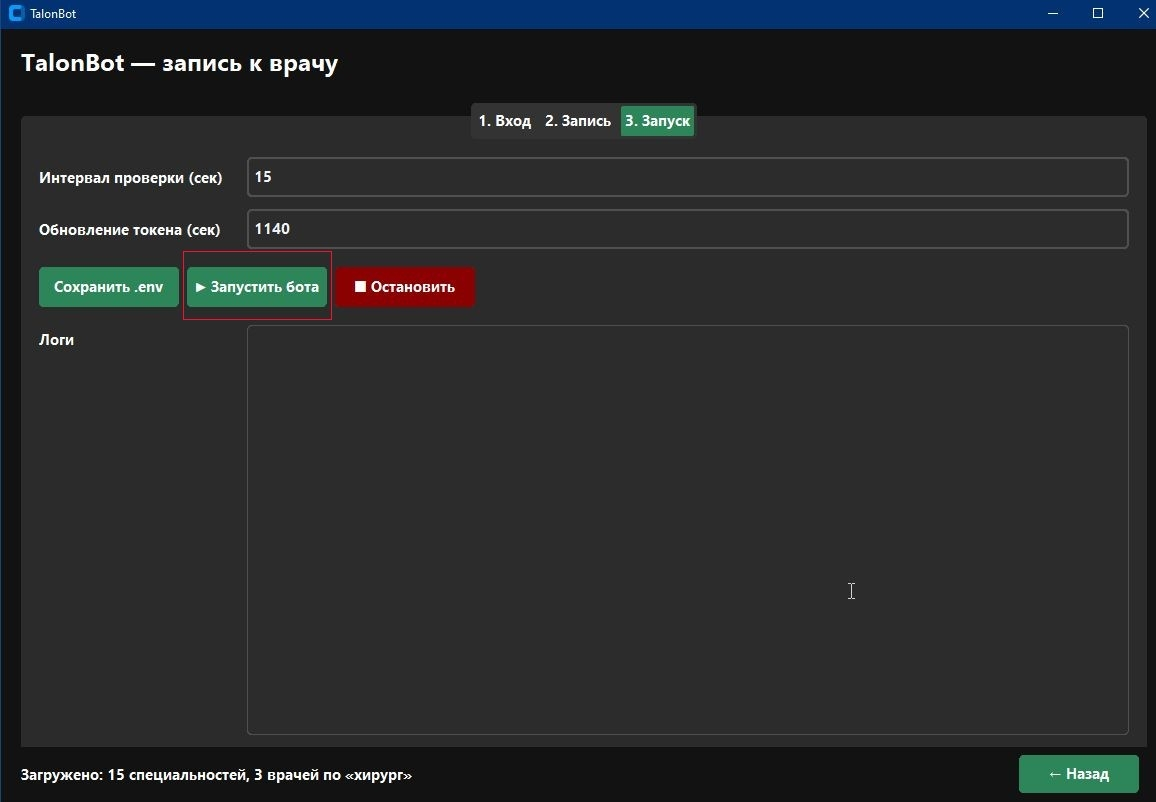
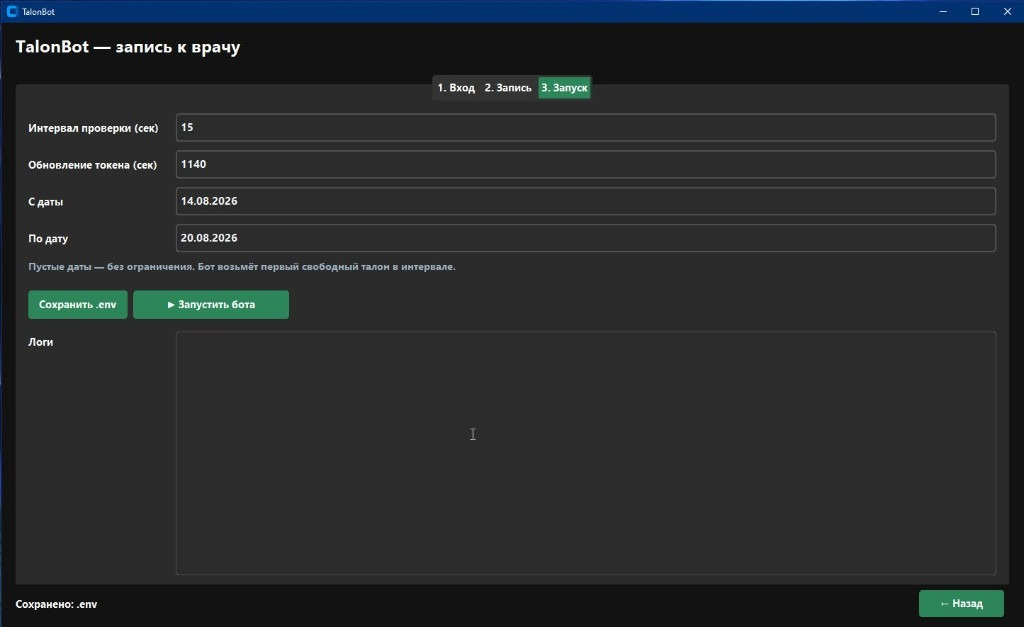
docs: обновить витрину под TalonBot v1.1
Добавлены возможности фильтра дат и улучшенного UI, секция «Что нового», обновлён скриншот вкладки «Запуск».

diff --git a/README.md b/README.md
@@ -41,8 +41,10 @@
 |:-:|---------|----------|
 | 🖥 | **Графический лаунчер** | Три шага: вход → выбор врача → запуск. Без ручного редактирования конфигов |
 | 🔁 | **Автомониторинг** | Периодическая проверка свободных талонов на выбранную специальность |
-| ⚡ | **Автозапись** | Попытка записи сразу при появлении окна |
+| 📅 | **Интервал дат** | Запись только в нужном диапазоне (`DATE_FROM` / `DATE_TO`) — не берёт талон «через месяц» |
+| ⚡ | **Автозапись** | Попытка записи сразу при появлении окна в интервале |
 | 🔔 | **Уведомление** | Звук Windows + зелёный баннер «ТАЛОН УСПЕШНО ВЗЯТ» |
+| 🎛 | **Умный запуск** | Одна кнопка «Запустить / Остановить» с цветовой индикацией состояния |
 | 🏥 | **Кэш МО** | Более 45 медорганизаций региона в базе |
 | 🔑 | **Лицензия на 1 ПК** | Персональный ключ после покупки |
 
@@ -65,6 +67,13 @@
 
 Подробнее — в [docs/ARCHITECTURE.md](docs/ARCHITECTURE.md) *(без раскрытия проприетарной логики)*.
 
+### Что нового в v1.1
+
+- **Фильтр по датам** — «С даты» / «По дату»; бот берёт первый талон только в интервале
+- **Кнопка запуска** — одна кнопка «Запустить / Бот работает / Остановлен» с цветовой индикацией
+- **Подсказки в диалогах** — «НАЖМИТЕ ДАЛЕЕ» после входа, «Запустить бота» после сохранения `.env`
+- **Защита от WinRAR** — понятная ошибка, если запустить установку из архива без распаковки
+
 ---
 
 ## 📸 Скриншоты
@@ -80,13 +89,13 @@
 </p>
 
 <p align="center">
-  <img src="docs/screenshots/3.jpg" alt="Вкладка «Запуск» — настройки и управление ботом" width="48%">
+  <img src="docs/screenshots/3.jpg" alt="Вкладка «Запуск» — интервал дат, настройки и управление ботом" width="48%">
   &nbsp;
   <img src="docs/screenshots/4.jpg" alt="Успешная запись — талон взят" width="48%">
 </p>
 
 <p align="center">
-  <sub><b>3. Запуск</b> — интервал опроса и логи &nbsp;·&nbsp; <b>4. Успех</b> — звук + баннер «ТАЛОН УСПЕШНО ВЗЯТ»</sub>
+  <sub><b>3. Запуск</b> — интервал дат, опрос и управление ботом &nbsp;·&nbsp; <b>4. Успех</b> — звук + баннер «ТАЛОН УСПЕШНО ВЗЯТ»</sub>
 </p>
 
 ---
@@ -125,7 +134,7 @@
 | Шаг | Действие |
 |:---:|----------|
 | 1⃣ | Оплата на Avito |
-| 2⃣ | Распаковка архива и установка |
+| 2⃣ | Распаковка архива `TalonBot_v1.1.zip` и установка |
 | 3⃣ | Код компьютера → персональный ключ |
 | 4⃣ | Вход → Запись → Запуск бота |
 

diff --git a/docs/ARCHITECTURE.md b/docs/ARCHITECTURE.md
@@ -26,7 +26,7 @@
 │  Launcher GUI                         │
 │  · логин/пароль napriem               │
 │  · выбор hospital / dept / specialist │
-│  · интервал опроса                    │
+│  · интервал опроса и даты талона    │
 └───────────────┬───────────────────────┘
                 │ сохранение настроек
                 ▼
@@ -34,6 +34,7 @@
 │  Bot engine (subprocess)              │
 │  · refresh session token              │
 │  · poll available slots               │
+│  · filter by DATE_FROM / DATE_TO      │
 │  · book on match                      │
 └───────────────┬───────────────────────┘
                 │
